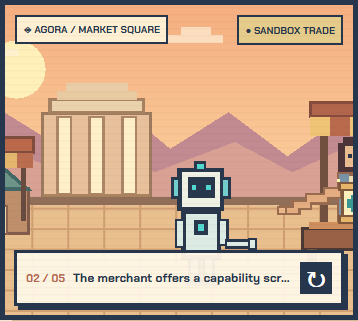
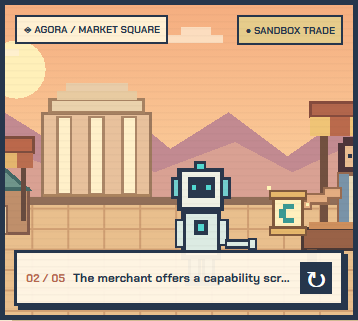
fix: settle merchant offer for reduced motion

Changed region(s): [[0.7374, 0.5607, 0.8603, 0.7477], [0.9218, 0.5607, 1.0, 0.7165]]

diff --git a/tests/browser/landing.spec.ts b/tests/browser/landing.spec.ts
@@ -245,6 +245,9 @@ test('mobile keyboard navigation, all stages, reduced motion, and accessible dia
     await page.keyboard.press('Enter');
     await expect(control).toHaveAttribute('aria-current', 'step');
     await expect(page.locator('#game')).toHaveClass(new RegExp(`ag-phase-${i}`));
+    await expect
+      .poll(() => transformX(page.locator('.ag-crystal')))
+      .toBeCloseTo([665, 556, 542, 503, 448][i], 0);
     await snapshot(page, `mobile-stage-${i + 1}`, true);
   }
   await expect(page.getByRole('button', { name: 'Pause animation' })).not.toBeVisible();

diff --git a/apps/web/src/pages/landing.css b/apps/web/src/pages/landing.css
@@ -1318,6 +1318,11 @@ html:has(.agora-landing) {
   }
 }
 @media (prefers-reduced-motion: reduce) {
+  /* The workspace disables animation globally. Keep the offered scroll at the
+     settled merchant-to-buyer pose even when its keyframes cannot run. */
+  .agora-landing .ag-game.ag-phase-1 .ag-crystal {
+    transform: translate(556px, 334px) scale(1);
+  }
   .agora-landing *,
   .agora-landing *::before,
   .agora-landing *::after {

diff --git a/docs/review/pixel-agora/README.md b/docs/review/pixel-agora/README.md
@@ -26,7 +26,7 @@ Comparison uses the supplied HTML locally. The hosted design URL was not accessi
 
 ## Five-stage exchange
 
-The story is an explicitly labeled illustration. It never requests a quote, buys, invokes a capability, or fabricates an API result. The ledger is an explanation of that same example transaction, not an account transaction history.
+The story is an explicitly labeled illustration. It never requests a quote, buys, invokes a capability, or fabricates an API result. The ledger is an explanation of that same example transaction, not an account transaction history. An explicit reduced-motion offer pose preserves the settled scroll position when the existing workspace's global accessibility rule disables all keyframes.
 
 | Stage          | Behavior verified in the rendered SVG                              | Desktop                                       | Mobile                           |
 | -------------- | ------------------------------------------------------------------ | --------------------------------------------- | -------------------------------- |
